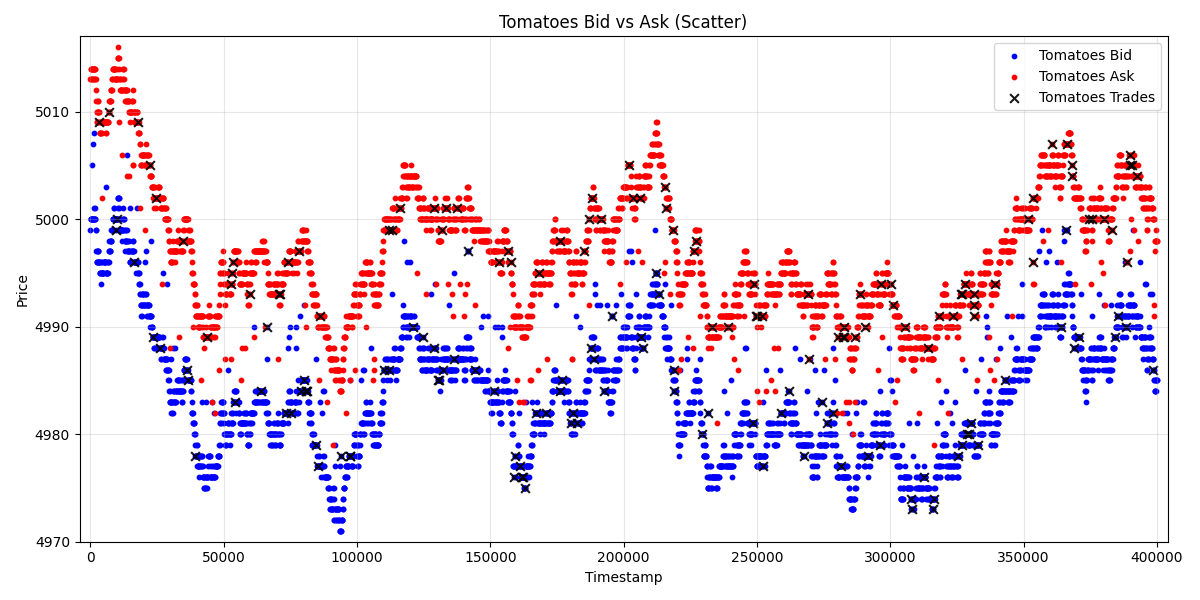
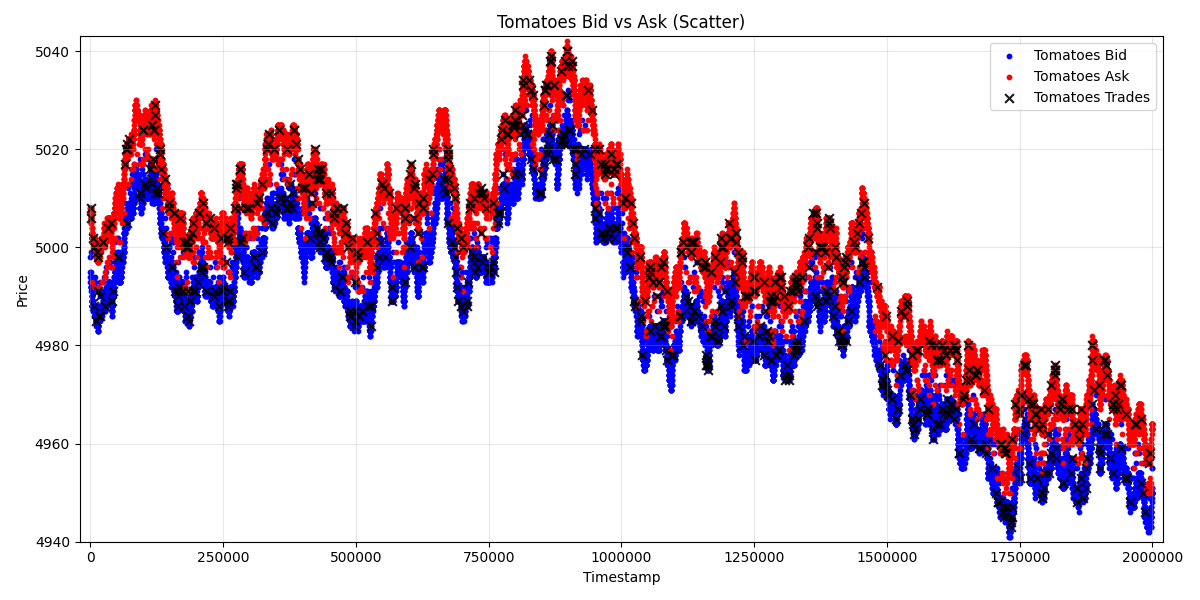
Finalized approach for tutorial round

diff --git a/Tutorial Round/tester.py b/Tutorial Round/tester.py
@@ -54,40 +54,27 @@ trades = load_trades(
 prices["best_bid"] = prices["bid_price_1"]
 prices["best_ask"] = prices["ask_price_1"]
 
-# Use raw timestamp for a single-day view
-prices["time"] = prices["timestamp"]
+# Build one continuous timeline across all loaded days so filtering by MAX_TIME
+# means "first X time units across the combined data".
+DAY_SPAN = max(prices["timestamp"].max(), trades["timestamp"].max()) + 100
+min_day = min(prices["day"].min(), trades["day"].min())
 
-# Use raw timestamp for trades as well
-trades["time"] = trades["timestamp"]
+prices["time"] = (prices["day"] - min_day) * DAY_SPAN + prices["timestamp"]
+trades["time"] = (trades["day"] - min_day) * DAY_SPAN + trades["timestamp"]
 
-MAX_TIMESTAMP = 400_000
-TARGET_DAY = -1
+MAX_TIME = 2_100_000
 
 emerald_prices = prices[
-    (prices["product"] == "EMERALDS")
-    & (prices["day"] == TARGET_DAY)
-    & (prices["timestamp"] <= MAX_TIMESTAMP)
+    (prices["product"] == "EMERALDS") & (prices["time"] <= MAX_TIME)
 ]
 
 
-tomato_prices = prices[
-    (prices["product"] == "TOMATOES")
-    & (prices["day"] == TARGET_DAY)
-    & (prices["timestamp"] <= MAX_TIMESTAMP)
-]
+tomato_prices = prices[(prices["product"] == "TOMATOES") & (prices["time"] <= MAX_TIME)]
 
-emerald_trades = trades[
-    (trades["symbol"] == "EMERALDS")
-    & (trades["day"] == TARGET_DAY)
-    & (trades["timestamp"] <= MAX_TIMESTAMP)
-]
+emerald_trades = trades[(trades["symbol"] == "EMERALDS") & (trades["time"] <= MAX_TIME)]
 
 
-tomato_trades = trades[
-    (trades["symbol"] == "TOMATOES")
-    & (trades["day"] == TARGET_DAY)
-    & (trades["timestamp"] <= MAX_TIMESTAMP)
-]
+tomato_trades = trades[(trades["symbol"] == "TOMATOES") & (trades["time"] <= MAX_TIME)]
 
 
 def plot_bid_ask_scatter(df, product_name, filename, trades_df=None):

diff --git a/Tutorial Round/README.md b/Tutorial Round/README.md
@@ -1,0 +1,16 @@
+# IMC Prosperity — Tutorial Round Notes
+
+## Strategy Comparison
+
+| Category             | Emeralds                                                               | Tomatoes                                                          |
+| -------------------- | ---------------------------------------------------------------------- | ----------------------------------------------------------------- |
+| **Market Structure** | Fair value ~10000<br>Wide spread (9992–10008)<br>Discrete trade levels | Continuous price<br>Tight spread<br>Trades across full range      |
+| **Core Edge**        | Execution / spread capture                                             | Prediction + execution                                            |
+| **Strategy Type**    | Market making                                                          | Hybrid (MR + Momentum)                                            |
+| **Entry Logic**      | Quote inside spread:<br>`bid = best_bid + 1`<br>`ask = best_ask - 1`   | MR: trade z-score<br>MOM: trade trend                             |
+| **Adaptation**       | Adjust based on fill time:<br>fast → widen<br>slow → tighten           | Switch based on signal alignment:<br>conflict → MR<br>align → MOM |
+| **Signals**          | Order book + fills                                                     | Mid, z-score, trend                                               |
+| **Inventory**        | Tight control, symmetric<br>bias to unwind                             | Avoid loading against trend                                       |
+| **Modeling**         | Empirical λ from trades<br>(fill timing)                               | Rolling stats (MA, std, trend)                                    |
+| **Endgame**          | Stop if time_left < exit time<br>force flatten                         | Reduce exposure, follow trend                                     |
+| **Key Principle**    | Best price that still fills                                            | Detect when MR fails → follow momentum                            |
